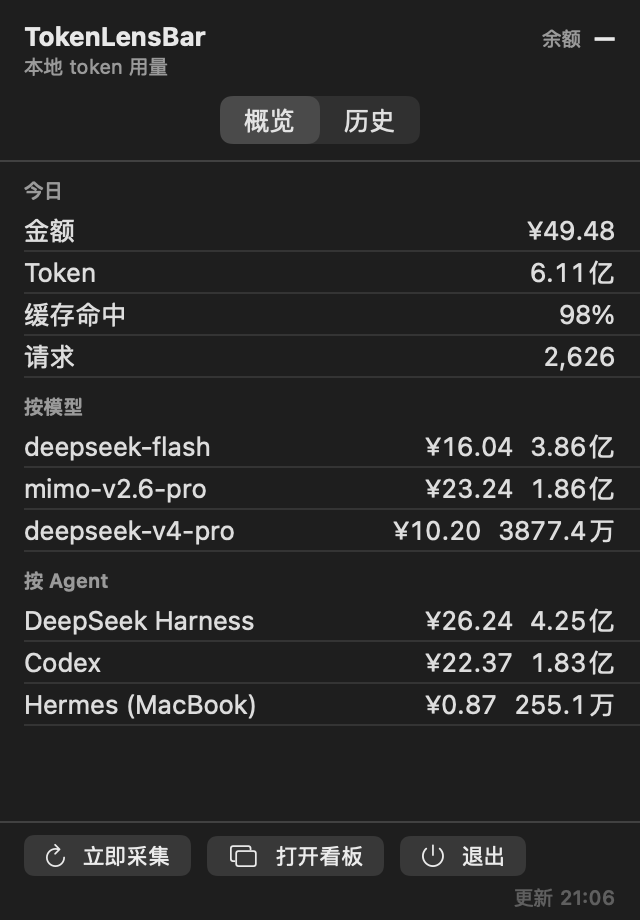
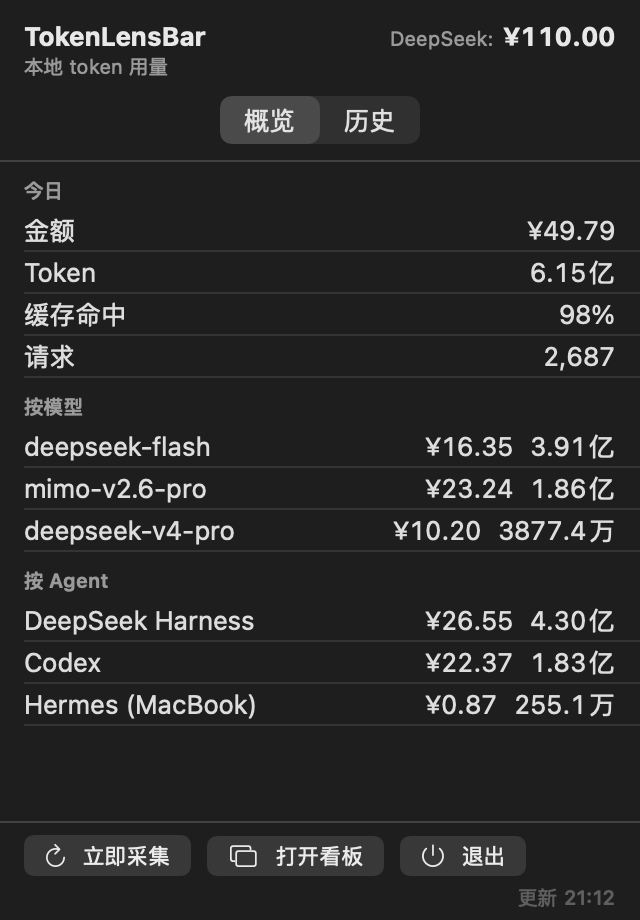
feat(panel): 右上角余额标注 provider 名称
- 标题右侧不再只写「余额」，改为 DeepSeek: ¥110.00 这样的形式
- 多个 provider 纵向排列，正好占住左侧副标题行，不挤压面板内容
- 未配置余额时仍然显示「余额 —」
- README 与面板截图同步更新

diff --git a/menu/TokenLensBar.swift b/menu/TokenLensBar.swift
@@ -232,15 +232,11 @@ func balanceText(_ value: Double, currency: String) -> String {
     return (value < 0 ? "-" : "") + symbol + number
 }
 
-func balanceSummary(_ snapshot: Snapshot?) -> String {
-    guard let balances = snapshot?.balances, balances.configured == true,
-          let providers = balances.providers, !providers.isEmpty else { return "—" }
-    let values = providers.flatMap { provider in
-        (provider.items ?? []).map {
-            balanceText($0.total ?? 0, currency: $0.currency ?? "CNY")
-        }
+func providerBalanceText(_ provider: Snapshot.BalanceProvider) -> String {
+    let values = (provider.items ?? []).map {
+        balanceText($0.total ?? 0, currency: $0.currency ?? "CNY")
     }
-    return values.isEmpty ? "—" : values.joined(separator: " · ")
+    return values.isEmpty ? "—" : values.joined(separator: " / ")
 }
 
 func clockText(_ epoch: Double) -> String {
@@ -363,27 +359,48 @@ struct PanelView: View {
     }
 
     private var header: some View {
-        VStack(alignment: .leading, spacing: 1) {
-            HStack(alignment: .firstTextBaseline, spacing: 6) {
+        HStack(alignment: .top, spacing: 8) {
+            VStack(alignment: .leading, spacing: 1) {
                 Text("TokenLensBar").font(.headline)
-                Spacer(minLength: 8)
-                Text("余额")
+                Text("本地 token 用量")
                     .font(.caption)
                     .foregroundStyle(.secondary)
-                Text(balanceSummary(model.snapshot))
-                    .font(.headline)
-                    .monospacedDigit()
-                    .lineLimit(1)
-                    .minimumScaleFactor(0.75)
             }
-            Text("本地 token 用量")
-                .font(.caption)
-                .foregroundStyle(.secondary)
+            Spacer(minLength: 8)
+            balanceHeader
         }
         .frame(maxWidth: .infinity, alignment: .leading)
         .padding(.horizontal, 12)
         .padding(.top, 10)
         .padding(.bottom, 8)
+    }
+
+    /// 右上角余额：写清楚是哪家的钱（DeepSeek: ¥9.17）。
+    /// 单个 provider 一行；多个时纵向排列，正好占住左侧副标题那一行。
+    @ViewBuilder private var balanceHeader: some View {
+        if let balances = model.snapshot?.balances, balances.configured == true,
+           let providers = balances.providers, !providers.isEmpty {
+            VStack(alignment: .trailing, spacing: 1) {
+                ForEach(Array(providers.enumerated()), id: \.offset) { _, provider in
+                    HStack(alignment: .firstTextBaseline, spacing: 4) {
+                        Text("\(provider.name ?? provider.id ?? "?"):")
+                            .font(.caption)
+                            .foregroundStyle(.secondary)
+                            .lineLimit(1)
+                        Text(providerBalanceText(provider))
+                            .font(.headline)
+                            .monospacedDigit()
+                            .lineLimit(1)
+                            .minimumScaleFactor(0.7)
+                    }
+                }
+            }
+        } else {
+            HStack(alignment: .firstTextBaseline, spacing: 4) {
+                Text("余额").font(.caption).foregroundStyle(.secondary)
+                Text("—").font(.headline)
+            }
+        }
     }
 
     private var topBar: some View {

diff --git a/README.md b/README.md
@@ -2,11 +2,11 @@
 
 纯本地、零网络的 token 用量监控（余额查询是可选功能）。采集器 ~900 行 Python（只用标准库）+ 原生菜单栏 App + 本地看板。
 
-菜单栏点开是原生面板（概览 / 历史）：概览是今日 + 按模型/Agent，余额直接显示在标题右上角；历史看全部汇总。面板跟随菜单栏/系统浅色或深色。
+菜单栏点开是原生面板（概览 / 历史）：概览是今日 + 按模型/Agent，余额显示在标题右上角并写明 provider（如 `DeepSeek: ¥110.00`，多个纵向排列）；历史看全部汇总。面板跟随菜单栏/系统浅色或深色。
 
 ![面板](docs/panel.png)
 
-（截图里关闭了余额，所以显示 `—`；填入 Key 后会显示真实余额。）
+（截图里的余额是示例；填入 Key 后会显示真实余额，并标明是哪家的。）
 
 完整看板在浏览器里，顶部是每日用量柱状图：
 
